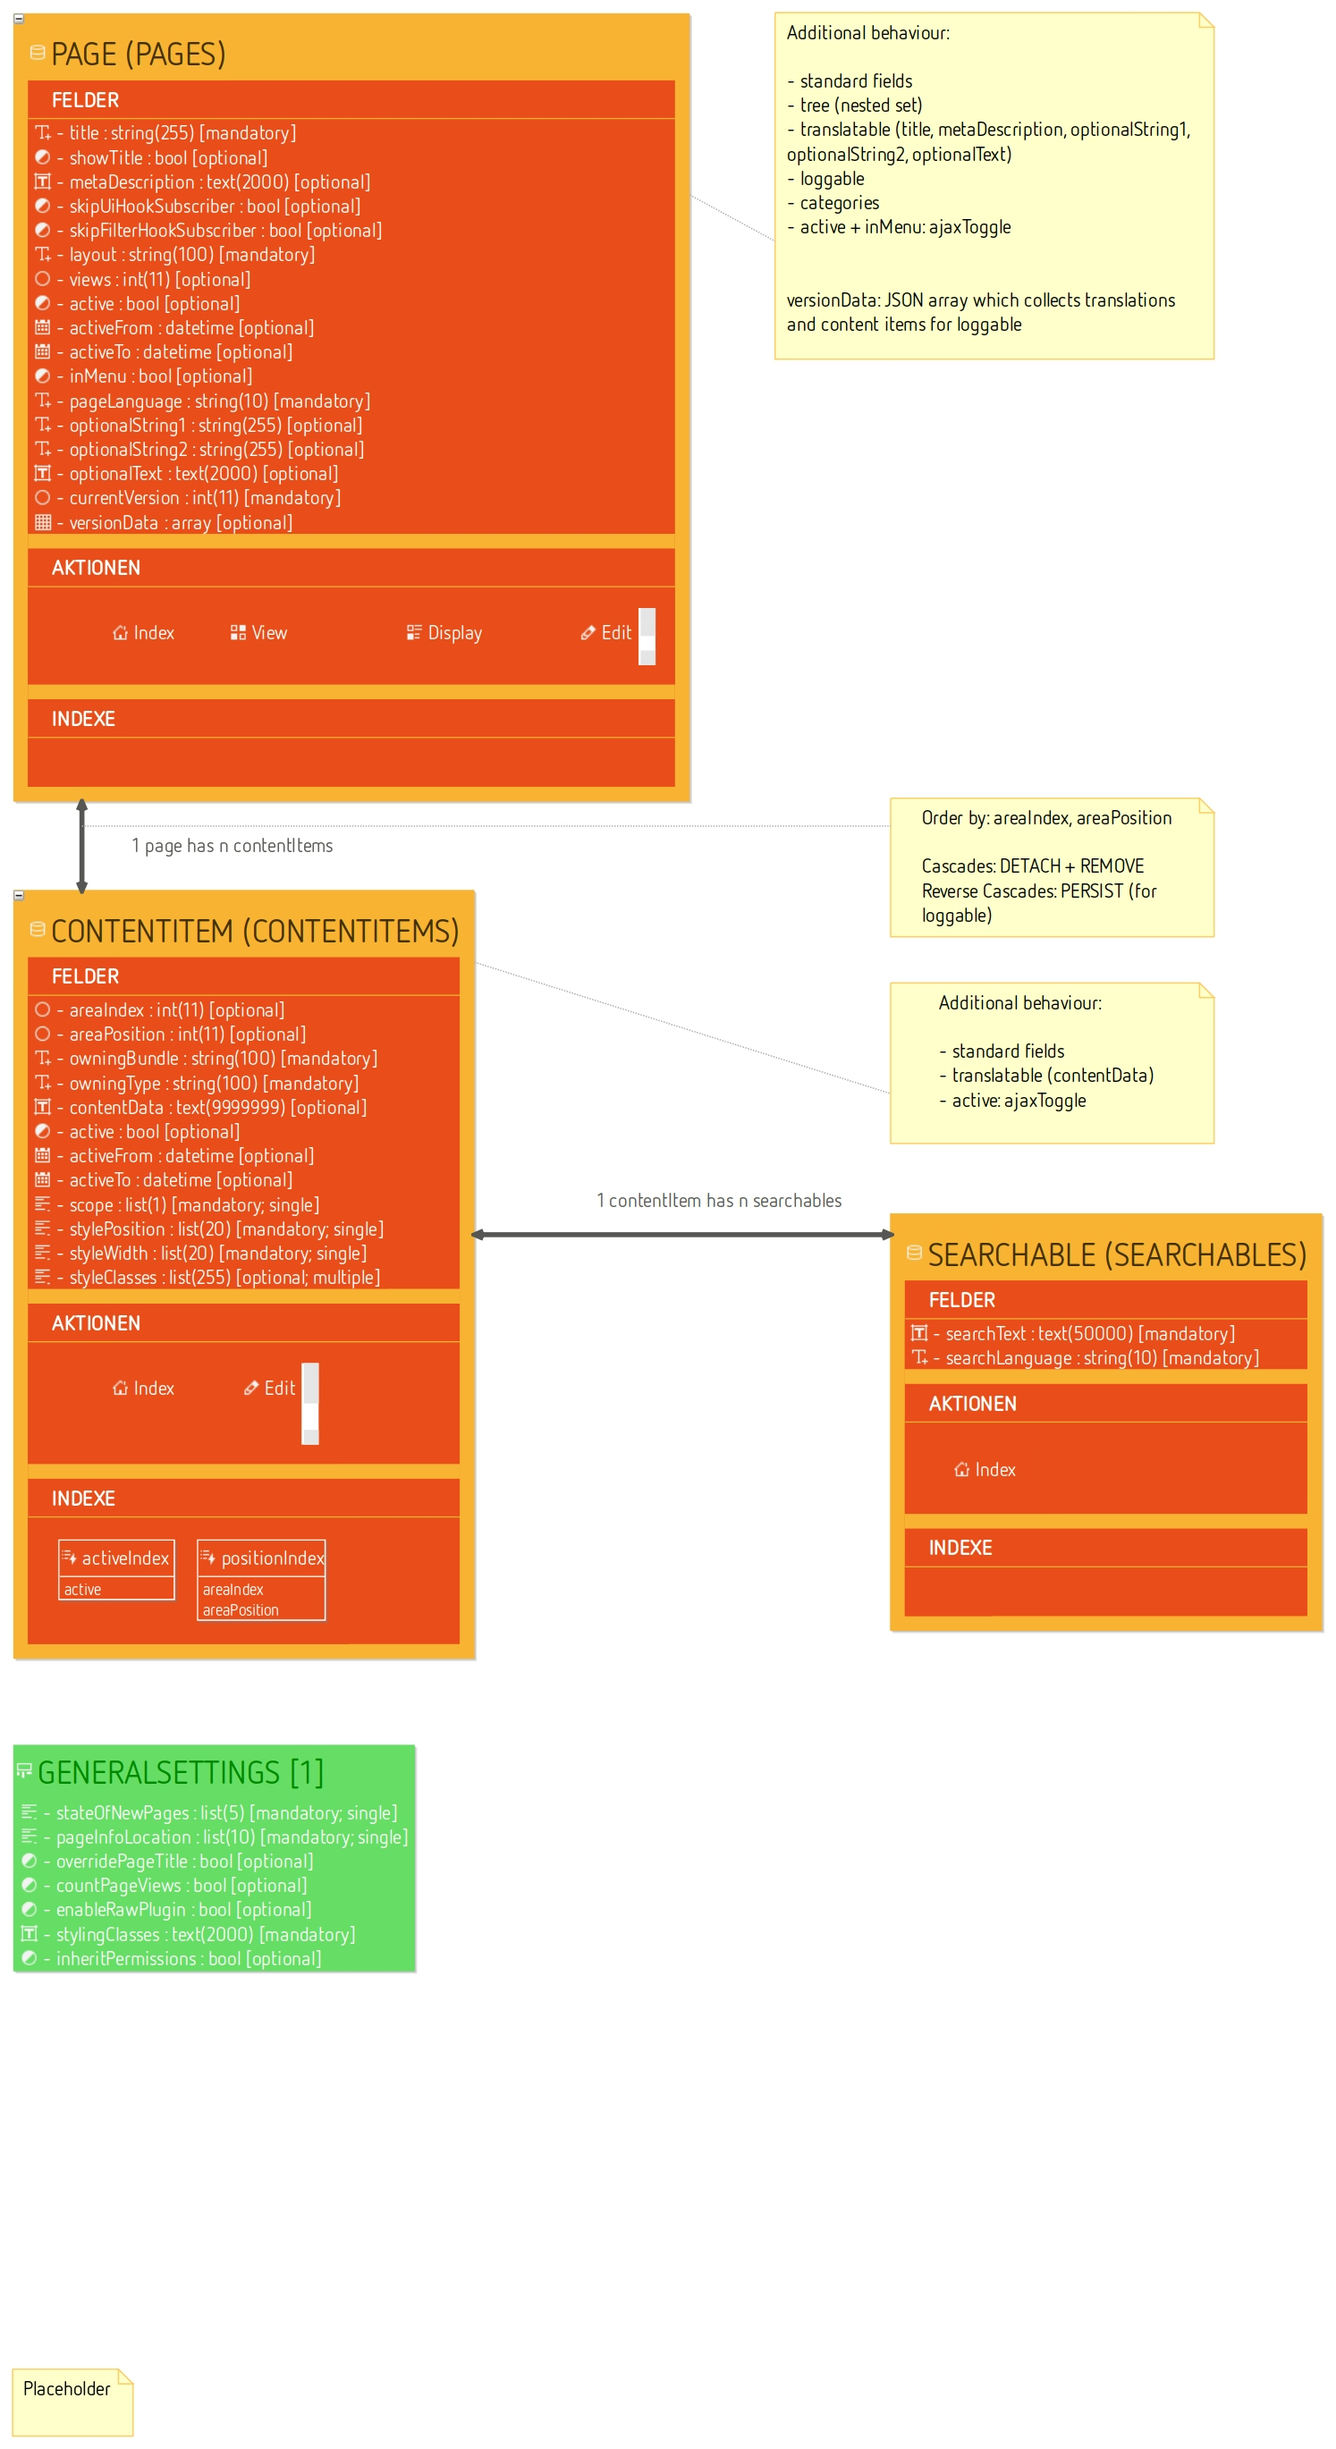
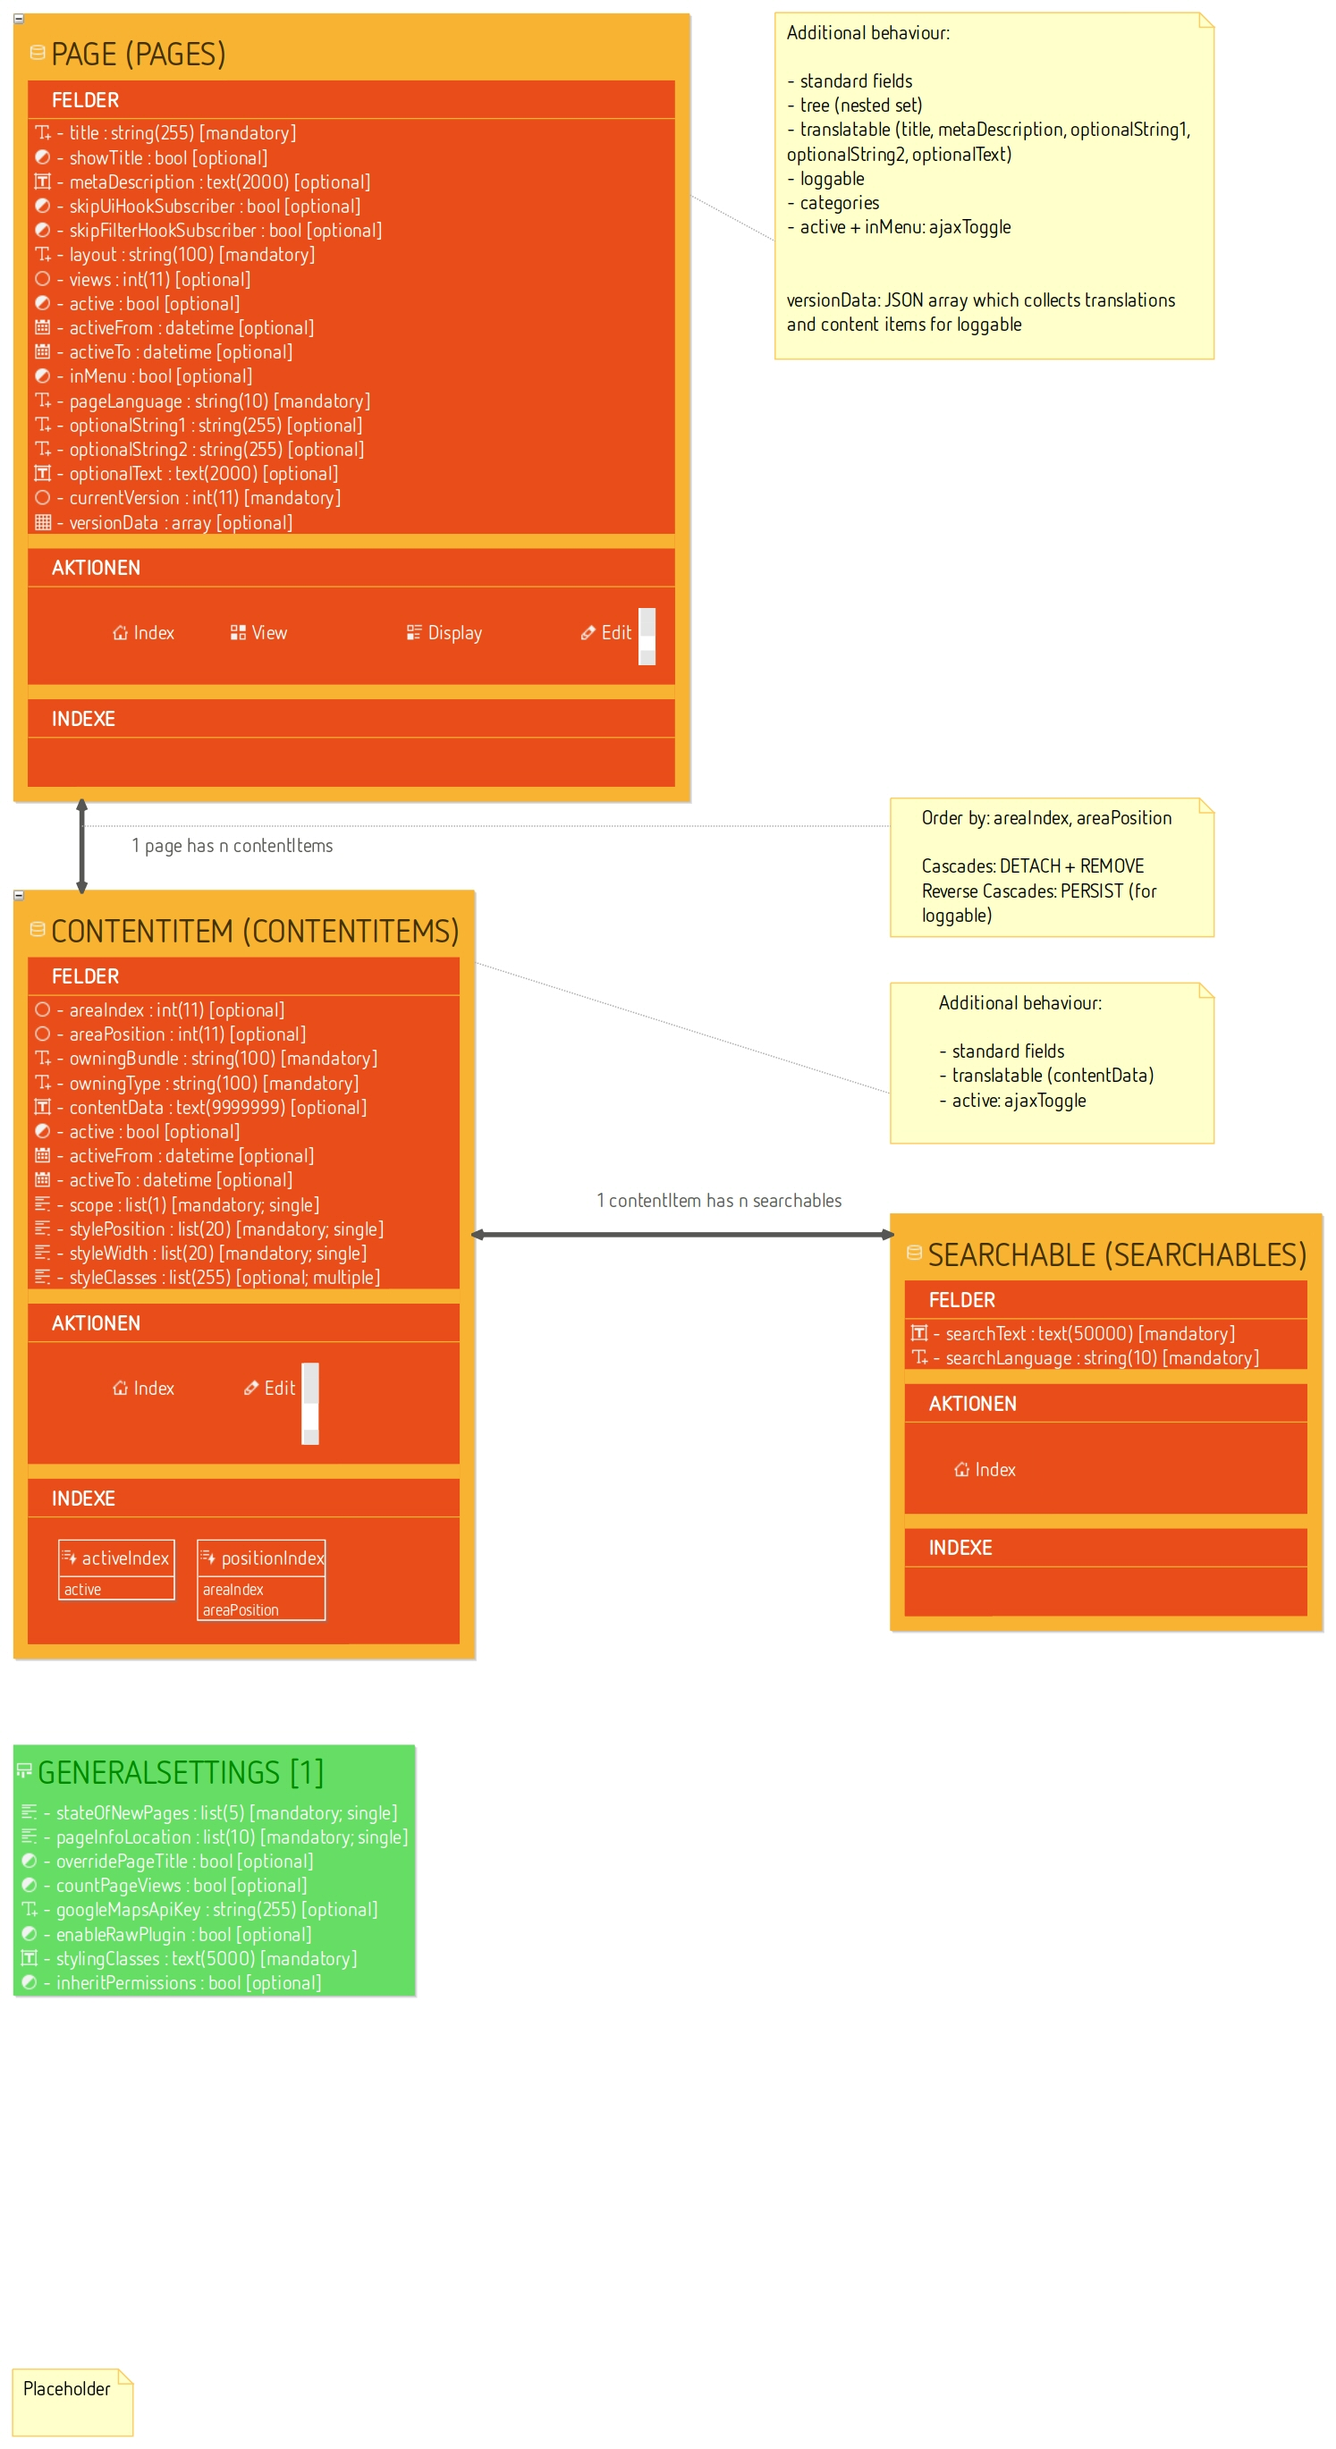
basic settings customisation

Changed region(s): [[0.0, 0.7758, 0.3079, 0.8379]]

diff --git a/src/modules/Zikula/ContentModule/Resources/docs/model/structure_de.html b/src/modules/Zikula/ContentModule/Resources/docs/model/structure_de.html
@@ -1716,6 +1716,24 @@
                 </td>
             </tr>
             <tr>
+                <th id="hVariablesGeneralSettingsFieldGoogleMapsApiKey" scope="row" headers="hVariablesGeneralSettingsFieldName">Google maps api key</th>
+                <td headers="hVariablesGeneralSettingsFieldGoogleMapsApiKey hVariablesGeneralSettingsFieldType">Zeichenkette</td>
+                <td headers="hVariablesGeneralSettingsFieldGoogleMapsApiKey hVariablesGeneralSettingsFieldMandatory">false</td>
+                <td headers="hVariablesGeneralSettingsFieldGoogleMapsApiKey hVariablesGeneralSettingsFieldDefault"></td>
+                <td headers="hVariablesGeneralSettingsFieldGoogleMapsApiKey hVariablesGeneralSettingsFieldDisplayType">ALL</td>
+                <td headers="hVariablesGeneralSettingsFieldGoogleMapsApiKey hVariablesGeneralSettingsFieldConstraints">
+                    <ul>
+                        <li>Hat eine Länge von 255 Zeichen.</li>
+                    </ul>
+                </td>
+                <td headers="hVariablesGeneralSettingsFieldGoogleMapsApiKey hVariablesGeneralSettingsFieldRemarks">
+                    <ul>
+                        <li>If you want to use Google maps you need an API key for it. </li>
+                        <li>Dieses Feld ist nicht eindeutig und erlaubt keine Null-Werte.</li>
+                    </ul>
+                </td>
+            </tr>
+            <tr>
                 <th id="hVariablesGeneralSettingsFieldEnableRawPlugin" scope="row" headers="hVariablesGeneralSettingsFieldName">Enable raw plugin</th>
                 <td headers="hVariablesGeneralSettingsFieldEnableRawPlugin hVariablesGeneralSettingsFieldType">Boolesches</td>
                 <td headers="hVariablesGeneralSettingsFieldEnableRawPlugin hVariablesGeneralSettingsFieldMandatory">false</td>
@@ -1740,7 +1758,7 @@
                 <td headers="hVariablesGeneralSettingsFieldStylingClasses hVariablesGeneralSettingsFieldDisplayType">ALL</td>
                 <td headers="hVariablesGeneralSettingsFieldStylingClasses hVariablesGeneralSettingsFieldConstraints">
                     <ul>
-                        <li>Hat eine Länge von 2000 Zeichen.</li>
+                        <li>Hat eine Länge von 5000 Zeichen.</li>
                     </ul>
                 </td>
                 <td headers="hVariablesGeneralSettingsFieldStylingClasses hVariablesGeneralSettingsFieldRemarks">

diff --git a/src/modules/Zikula/ContentModule/Resources/docs/model/structure_en.html b/src/modules/Zikula/ContentModule/Resources/docs/model/structure_en.html
@@ -1716,6 +1716,24 @@
                 </td>
             </tr>
             <tr>
+                <th id="hVariablesGeneralSettingsFieldGoogleMapsApiKey" scope="row" headers="hVariablesGeneralSettingsFieldName">Google maps api key</th>
+                <td headers="hVariablesGeneralSettingsFieldGoogleMapsApiKey hVariablesGeneralSettingsFieldType">String</td>
+                <td headers="hVariablesGeneralSettingsFieldGoogleMapsApiKey hVariablesGeneralSettingsFieldMandatory">false</td>
+                <td headers="hVariablesGeneralSettingsFieldGoogleMapsApiKey hVariablesGeneralSettingsFieldDefault"></td>
+                <td headers="hVariablesGeneralSettingsFieldGoogleMapsApiKey hVariablesGeneralSettingsFieldDisplayType">ALL</td>
+                <td headers="hVariablesGeneralSettingsFieldGoogleMapsApiKey hVariablesGeneralSettingsFieldConstraints">
+                    <ul>
+                        <li>Has a length of 255 chars.</li>
+                    </ul>
+                </td>
+                <td headers="hVariablesGeneralSettingsFieldGoogleMapsApiKey hVariablesGeneralSettingsFieldRemarks">
+                    <ul>
+                        <li>If you want to use Google maps you need an API key for it. </li>
+                        <li>This field is not unique and allows no null values.</li>
+                    </ul>
+                </td>
+            </tr>
+            <tr>
                 <th id="hVariablesGeneralSettingsFieldEnableRawPlugin" scope="row" headers="hVariablesGeneralSettingsFieldName">Enable raw plugin</th>
                 <td headers="hVariablesGeneralSettingsFieldEnableRawPlugin hVariablesGeneralSettingsFieldType">Boolean</td>
                 <td headers="hVariablesGeneralSettingsFieldEnableRawPlugin hVariablesGeneralSettingsFieldMandatory">false</td>
@@ -1740,7 +1758,7 @@
                 <td headers="hVariablesGeneralSettingsFieldStylingClasses hVariablesGeneralSettingsFieldDisplayType">ALL</td>
                 <td headers="hVariablesGeneralSettingsFieldStylingClasses hVariablesGeneralSettingsFieldConstraints">
                     <ul>
-                        <li>Has a length of 2000 chars.</li>
+                        <li>Has a length of 5000 chars.</li>
                     </ul>
                 </td>
                 <td headers="hVariablesGeneralSettingsFieldStylingClasses hVariablesGeneralSettingsFieldRemarks">

diff --git a/src/modules/Zikula/ContentModule/Base/AbstractAppSettings.php b/src/modules/Zikula/ContentModule/Base/AbstractAppSettings.php
@@ -59,6 +59,15 @@ abstract class AbstractAppSettings
     protected $countPageViews = false;
     
     /**
+     * If you want to use Google maps you need an API key for it.
+     *
+     * @Assert\NotNull()
+     * @Assert\Length(min="0", max="255")
+     * @var string $googleMapsApiKey
+     */
+    protected $googleMapsApiKey = '';
+    
+    /**
      * Whether to enable the unfiltered raw text plugin. Use this plugin with caution and if you can trust your editors, since no filtering is being done on the content. To be used for iframes, JavaScript blocks, etc.
      *
      * @Assert\NotNull()
@@ -68,8 +77,10 @@ abstract class AbstractAppSettings
     protected $enableRawPlugin = false;
     
     /**
+     * A list of CSS class names available for styling of content elements. The end user can select these classes for each element on a page - for instance "note" for an element styled as a note. Write one class name on each line. Please separate the CSS classes and displaynames with | - eg. "note | Memo".
+     *
      * @Assert\NotBlank()
-     * @Assert\Length(min="0", max="2000")
+     * @Assert\Length(min="0", max="5000")
      * @var text $stylingClasses
      */
     protected $stylingClasses = 'greybox|Grey box';
@@ -228,6 +239,30 @@ abstract class AbstractAppSettings
     {
         if (boolval($this->countPageViews) !== boolval($countPageViews)) {
             $this->countPageViews = boolval($countPageViews);
+        }
+    }
+    
+    /**
+     * Returns the google maps api key.
+     *
+     * @return string
+     */
+    public function getGoogleMapsApiKey()
+    {
+        return $this->googleMapsApiKey;
+    }
+    
+    /**
+     * Sets the google maps api key.
+     *
+     * @param string $googleMapsApiKey
+     *
+     * @return void
+     */
+    public function setGoogleMapsApiKey($googleMapsApiKey)
+    {
+        if ($this->googleMapsApiKey !== $googleMapsApiKey) {
+            $this->googleMapsApiKey = isset($googleMapsApiKey) ? $googleMapsApiKey : '';
         }
     }
     
@@ -419,6 +454,9 @@ abstract class AbstractAppSettings
         if (isset($moduleVars['countPageViews'])) {
             $this->setCountPageViews($moduleVars['countPageViews']);
         }
+        if (isset($moduleVars['googleMapsApiKey'])) {
+            $this->setGoogleMapsApiKey($moduleVars['googleMapsApiKey']);
+        }
         if (isset($moduleVars['enableRawPlugin'])) {
             $this->setEnableRawPlugin($moduleVars['enableRawPlugin']);
         }
@@ -451,6 +489,7 @@ abstract class AbstractAppSettings
         $this->variableApi->set('ZikulaContentModule', 'pageInfoLocation', $this->getPageInfoLocation());
         $this->variableApi->set('ZikulaContentModule', 'overridePageTitle', $this->getOverridePageTitle());
         $this->variableApi->set('ZikulaContentModule', 'countPageViews', $this->getCountPageViews());
+        $this->variableApi->set('ZikulaContentModule', 'googleMapsApiKey', $this->getGoogleMapsApiKey());
         $this->variableApi->set('ZikulaContentModule', 'enableRawPlugin', $this->getEnableRawPlugin());
         $this->variableApi->set('ZikulaContentModule', 'stylingClasses', $this->getStylingClasses());
         $this->variableApi->set('ZikulaContentModule', 'inheritPermissions', $this->getInheritPermissions());

diff --git a/src/modules/Zikula/ContentModule/Form/Type/Base/AbstractConfigType.php b/src/modules/Zikula/ContentModule/Form/Type/Base/AbstractConfigType.php
@@ -19,6 +19,7 @@ use Symfony\Component\Form\Extension\Core\Type\IntegerType;
 use Symfony\Component\Form\Extension\Core\Type\ResetType;
 use Symfony\Component\Form\Extension\Core\Type\SubmitType;
 use Symfony\Component\Form\Extension\Core\Type\TextareaType;
+use Symfony\Component\Form\Extension\Core\Type\TextType;
 use Symfony\Component\Form\FormBuilderInterface;
 use Symfony\Component\OptionsResolver\OptionsResolver;
 use Zikula\Common\Translator\TranslatorInterface;
@@ -154,6 +155,22 @@ abstract class AbstractConfigType extends AbstractType
             'required' => false,
         ]);
         
+        $builder->add('googleMapsApiKey', TextType::class, [
+            'label' => $this->__('Google maps api key') . ':',
+            'label_attr' => [
+                'class' => 'tooltips',
+                'title' => $this->__('If you want to use Google maps you need an API key for it.')
+            ],
+            'help' => $this->__('If you want to use Google maps you need an API key for it.'),
+            'empty_data' => '',
+            'attr' => [
+                'maxlength' => 255,
+                'class' => '',
+                'title' => $this->__('Enter the google maps api key')
+            ],
+            'required' => false,
+        ]);
+        
         $builder->add('enableRawPlugin', CheckboxType::class, [
             'label' => $this->__('Enable raw plugin') . ':',
             'label_attr' => [
@@ -170,10 +187,14 @@ abstract class AbstractConfigType extends AbstractType
         
         $builder->add('stylingClasses', TextareaType::class, [
             'label' => $this->__('Styling classes') . ':',
-            'help' => $this->__f('Note: this value must not exceed %amount% characters.', ['%amount%' => 2000]),
+            'label_attr' => [
+                'class' => 'tooltips',
+                'title' => $this->__('A list of CSS class names available for styling of content elements. The end user can select these classes for each element on a page - for instance "note" for an element styled as a note. Write one class name on each line. Please separate the CSS classes and displaynames with | - eg. "note | Memo".')
+            ],
+            'help' => [$this->__('A list of CSS class names available for styling of content elements. The end user can select these classes for each element on a page - for instance "note" for an element styled as a note. Write one class name on each line. Please separate the CSS classes and displaynames with | - eg. "note | Memo".'), $this->__f('Note: this value must not exceed %amount% characters.', ['%amount%' => 5000])],
             'empty_data' => 'greybox|Grey box',
             'attr' => [
-                'maxlength' => 2000,
+                'maxlength' => 5000,
                 'class' => '',
                 'title' => $this->__('Enter the styling classes')
             ],

diff --git a/src/modules/Zikula/ContentModule/Base/AbstractContentModuleInstaller.php b/src/modules/Zikula/ContentModule/Base/AbstractContentModuleInstaller.php
@@ -49,6 +49,7 @@ abstract class AbstractContentModuleInstaller extends AbstractExtensionInstaller
         $this->setVar('pageInfoLocation', 'top');
         $this->setVar('overridePageTitle', true);
         $this->setVar('countPageViews', false);
+        $this->setVar('googleMapsApiKey', '');
         $this->setVar('enableRawPlugin', false);
         $this->setVar('stylingClasses', 'greybox|Grey box');
         $this->setVar('inheritPermissions', false);
@@ -70,13 +71,13 @@ abstract class AbstractContentModuleInstaller extends AbstractExtensionInstaller
         if ($categoryGlobal) {
             $categoryRegistryIdsPerEntity = [];
             $entityManager = $this->container->get('doctrine.orm.default_entity_manager');
-        
+    
             $registry = new CategoryRegistryEntity();
             $registry->setModname('ZikulaContentModule');
             $registry->setEntityname('PageEntity');
             $registry->setProperty($categoryHelper->getPrimaryProperty('Page'));
             $registry->setCategory($categoryGlobal);
-        
+    
             try {
                 $entityManager->persist($registry);
                 $entityManager->flush();

diff --git a/src/modules/Zikula/ContentModule/ContentModuleInstaller.php b/src/modules/Zikula/ContentModule/ContentModuleInstaller.php
@@ -19,5 +19,18 @@ use Zikula\ContentModule\Base\AbstractContentModuleInstaller;
  */
 class ContentModuleInstaller extends AbstractContentModuleInstaller
 {
-    // feel free to extend the installer here
+    /**
+     * @inheritDoc
+     */
+    public function install()
+    {
+        $result = parent::install();
+        if (!$result) {
+            return $result;
+        }
+
+        $this->setVar('stylingClasses', "greybox|Grey box\nredbox|Red box\nyellowbox|Yellow box\ngreenbox|Green box\norangeannouncementbox|Orange announcement box\ngreenimportantbox|Green important box");
+
+        return $result;
+    }
 }

diff --git a/src/modules/Zikula/ContentModule/Base/bootstrap.php b/src/modules/Zikula/ContentModule/Base/bootstrap.php
@@ -7,7 +7,7 @@
  * @author Axel Guckelsberger <vorstand@zikula.de>.
  * @link https://zikula.de
  * @link http://zikula.org
- * @version Generated by ModuleStudio 1.3.2 (https://modulestudio.de) at Tue Jun 12 07:11:24 CEST 2018.
+ * @version Generated by ModuleStudio 1.3.2 (https://modulestudio.de) at Tue Jun 12 15:25:09 CEST 2018.
  */
 
 /**

diff --git a/src/modules/Zikula/ContentModule/bootstrap.php b/src/modules/Zikula/ContentModule/bootstrap.php
@@ -7,7 +7,7 @@
  * @author Axel Guckelsberger <vorstand@zikula.de>.
  * @link https://zikula.de
  * @link http://zikula.org
- * @version Generated by ModuleStudio 1.3.2 (https://modulestudio.de) at Tue Jun 12 07:11:24 CEST 2018.
+ * @version Generated by ModuleStudio 1.3.2 (https://modulestudio.de) at Tue Jun 12 15:25:09 CEST 2018.
  */
 
 /**
